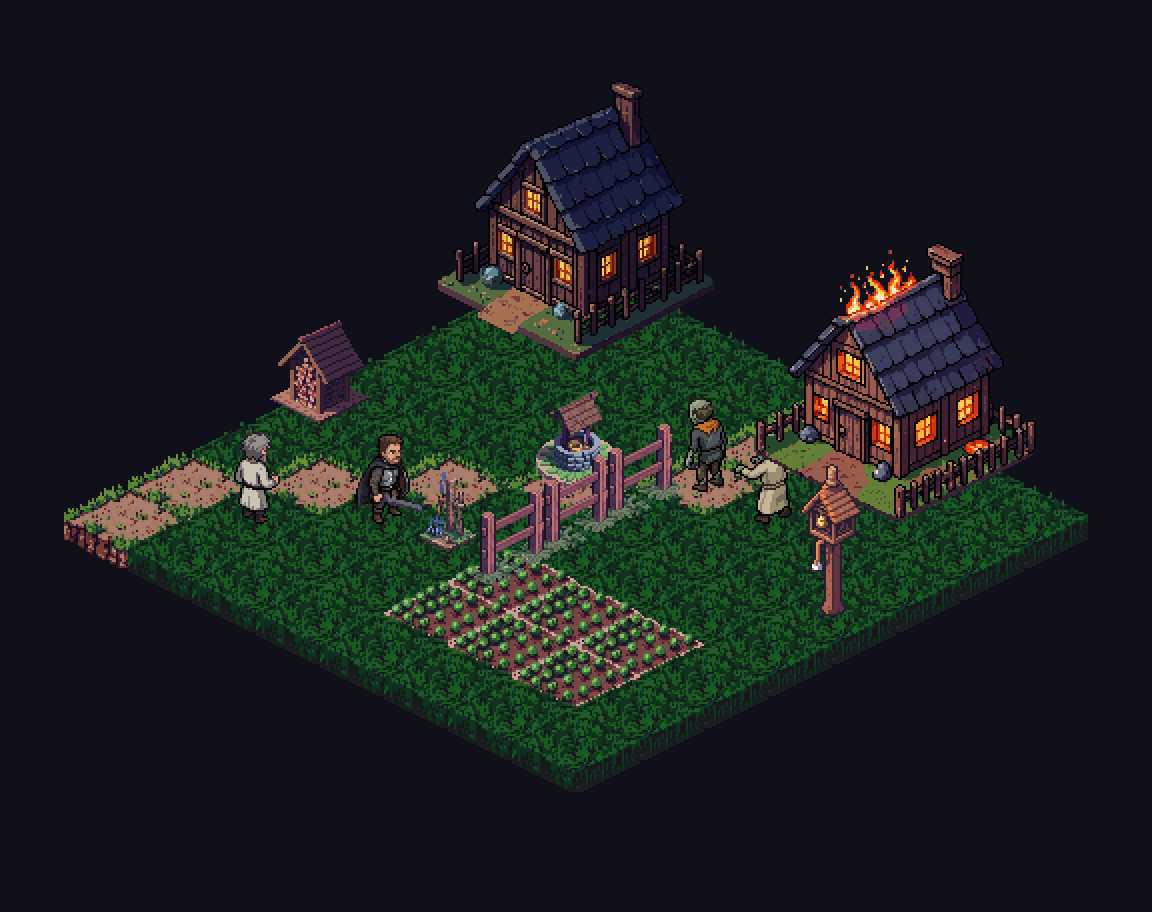
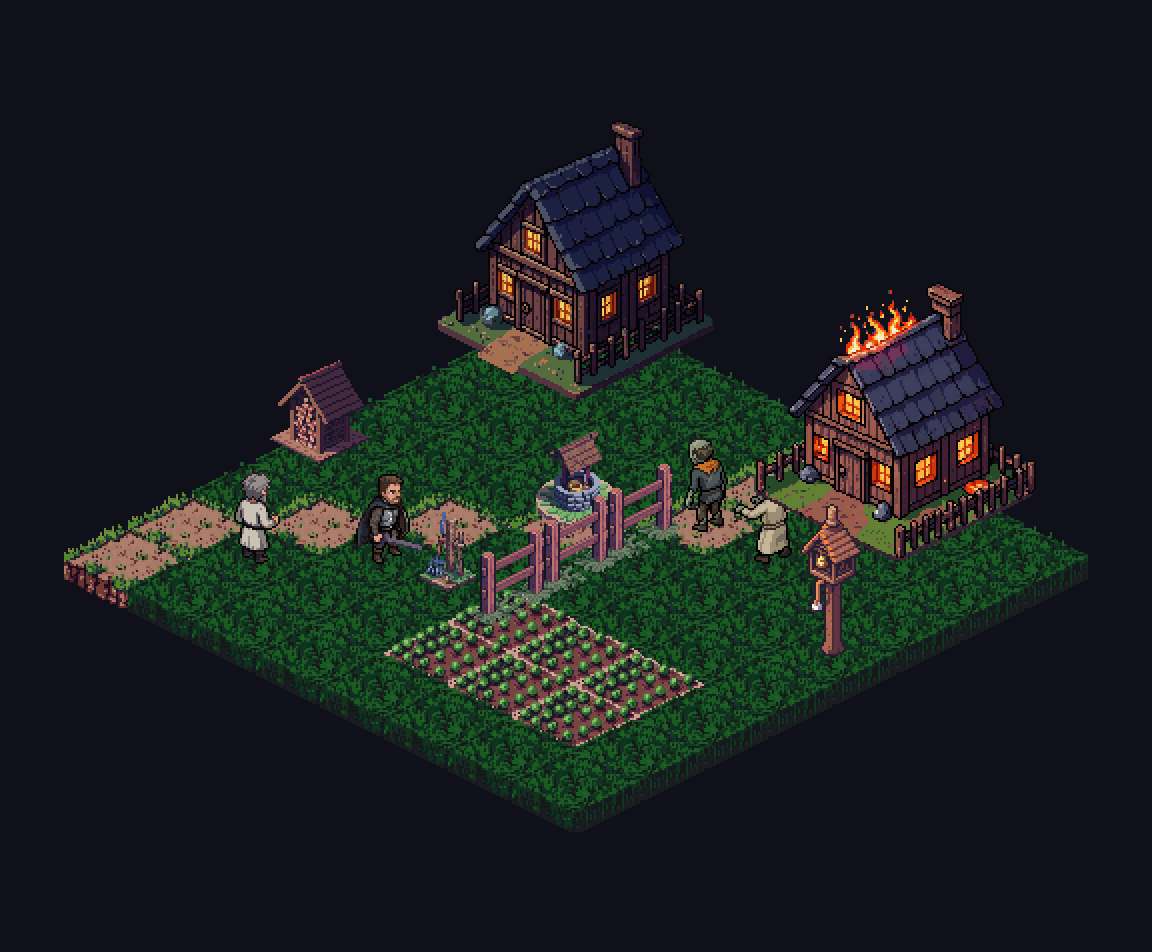
K3: деревня утром и храм, общие пробные сцены
Claude-Session: https://claude.ai/code/session_018SHDdbzaB97y34YHTo96bA

Changed region(s): [[0.0312, 0.0921, 0.9375, 0.8596]]

diff --git a/art/tools/k3_batch7.py b/art/tools/k3_batch7.py
@@ -1,0 +1,73 @@
+"""K3, партия 7: деревня утром (сцена 3) и храм (бой 2), PROMPTS.md 3.7.
+
+Каждый ассет — два seed в <набор>/variants/<имя>_<seed>.png; отобранный копируется в <набор>/<имя>.png.
+Утренние полы и постройки, общие с ночью, делаются перекраской (`morning.py`), здесь только новое.
+
+    python3 art/tools/k3_batch7.py [набор ...]
+"""
+import sys, concurrent.futures as cf
+from pathlib import Path
+sys.path.insert(0, str(Path(__file__).parent))
+import pixellab as p
+from k3_batch6 import ISO, FLAT
+
+TILES = p.ROOT / "art" / "prologue" / "tiles"
+MORNING = "grey cold morning light, overcast, "
+TEMPLE = "inside a ruined village temple, dim candlelight, "
+SETS = {
+ "village_morning": {
+  "tiles": {
+   "floor_ash": FLAT + "grey ash and charred straw over dirt, morning, low contrast, seamless edges",
+   "floor_ruts": FLAT + "muddy ground with two deep cart wheel ruts running straight across the tile diagonally, morning, low contrast, seamless edges",
+  },
+  "objects": {
+   "house_burned": (MORNING + "ruins of a burned-down cottage: only a blackened low stone foundation, a few charred standing wooden posts and fallen black beams, no roof, no fire, no flames, thin grey smoke, the ruins fill the whole canvas", 160, 160),
+   "grave": (MORNING + "fresh grave mound of dark earth with a simple wooden marker", 64, 48),
+   "cart_abandoned": (MORNING + "abandoned broken wooden cart with one wheel off lying beside it, a dull red crown-in-circle emblem painted on the side", 96, 96),
+   "list_scrap": (MORNING + "a single small torn sheet of paper with neat handwritten lines lying flat in the mud", 32, 32),
+   "cellar_hatch": (MORNING + "flat wooden trapdoor lying flat on the ground, a square cellar door in the ground, one half lifted open showing a dark hole, no building, no walls, no roof", 64, 48),
+  },
+ },
+ "temple": {
+  "tiles": {
+   "floor_flagstone": FLAT + "cracked grey temple flagstones with a faded painted pattern and candle wax drips, dim, low contrast, seamless edges",
+   "floor_debris": FLAT + "grey temple flagstones with scattered broken roof tiles and dust, dim, low contrast, seamless edges",
+   "floor_scorched": FLAT + "grey temple flagstones with a black scorched circle burned into the stone, dim, low contrast, seamless edges",
+  },
+  "objects": {
+   "pew": (TEMPLE + "long plain wooden church pew bench with a backrest, seats four people", 96, 96),
+   "pew_broken": (TEMPLE + "long wooden church pew bench with a backrest broken in the middle, two halves lying at an angle, splinters", 96, 96),
+   "altar": (TEMPLE + "stone altar with a carved candle-flame symbol on the front and many melted lit candles on top", 64, 64),
+   "column": (TEMPLE + "cracked round stone column with a fallen chunk at its base", 64, 96),
+   "candelabrum": (TEMPLE + "tall iron floor candelabrum with lit candles", 32, 64),
+   "roof_debris": (TEMPLE + "large heap of fallen charred wooden roof beams and broken clay roof tiles lying on the floor, the heap fills the canvas", 96, 96),
+  },
+ },
+}
+
+
+def one(kind, s, name, spec, seed):
+    out = TILES / s / "variants" / f"{name}_{seed}.png"
+    if out.exists():
+        return out
+    if kind == "tiles":
+        return p.iso_tile(name, spec + ", " + p.STYLE_ISO, out, seed=seed)
+    d, w, h = spec
+    return p.map_object(name, d + ", " + ISO + p.STYLE_ISO, out, w, h, seed=seed)
+
+
+if __name__ == "__main__":
+    args = sys.argv[1:]
+    if args[:1] == ["--reroll"]:  # --reroll имя... : ещё seed 3 и 4
+        names = set(args[1:])
+        jobs = [(k, s, n, sp, seed) for s in SETS for k in ("tiles", "objects") for n, sp in SETS[s][k].items()
+                if n in names for seed in (3, 4)]
+    else:
+        sets = args or list(SETS)
+        jobs = [(k, s, n, sp, seed) for s in sets for k in ("tiles", "objects") for n, sp in SETS[s][k].items() for seed in (1, 2)]
+    with cf.ThreadPoolExecutor(4) as ex:
+        for f in cf.as_completed([ex.submit(one, *j) for j in jobs]):
+            try:
+                print("ok", f.result().name, flush=True)
+            except Exception as e:
+                print("ERR", e, flush=True)

diff --git a/art/tools/scene_preview.py b/art/tools/scene_preview.py
@@ -1,0 +1,76 @@
+"""Пробные сцены 8×8 из тайлов пролога → previews/<сцена>_scene.png. Проверка стыков, масштаба и света.
+
+    python3 art/tools/scene_preview.py [village_night village_morning temple]
+"""
+import sys
+from PIL import Image
+from pathlib import Path
+
+A = Path(__file__).resolve().parents[1]
+C = A / "prologue/characters"
+W1 = A / "wave1/characters"
+N = 8
+HERO = C / "hero_fighter_m/composited/idle/south-east/00.png"
+ROT = lambda n, d: C / n / "base/Idle/rotations" / f"{d}.png"
+VILLAGE = ["ggggpggg", "ggggpggg", "ggggpggg", "gggpgggg", "ggpggggg", "gpggooog", "pgggooog", "pggggggg"]
+SCENES = {
+ "village_night": dict(
+    map=VILLAGE, key={"p": "floor_path", "g": "floor_grass", "o": "floor_garden"}, bg=(16, 16, 26),
+    objs={(1, 1): "house", (6, 1): "house_burning", (3, 3): "well", (0, 4): "woodpile", (7, 3): "bell_tower",
+          (4, 3): "fence", (4, 4): "fence", (4, 5): "fence", (3, 5): "tools"},
+    chars={(2, 5): HERO, (4, 2): W1 / "zombie/rotations/north-west.png", (5, 2): ROT("parishioner_m", "north-west"),
+           (1, 6): ROT("neighbor", "north-east")}),
+ "village_morning": dict(
+    map=["ggggrggg", "gaaarggg", "gaaarggg", "gggrgggg", "ggrggggg", "grggooog", "rgggooog", "rggggggg"],
+    key={"p": "floor_path", "g": "floor_grass", "o": "floor_garden", "a": "floor_ash", "r": "floor_ruts"}, bg=(58, 60, 66),
+    objs={(1, 1): "house_burned", (6, 1): "house", (3, 3): "well", (0, 4): "woodpile", (7, 3): "bell_tower",
+          (4, 3): "fence", (4, 4): "fence", (4, 5): "fence", (5, 3): "grave", (2, 6): "cart_abandoned",
+          (3, 6): "list_scrap", (6, 6): "cellar_hatch"},
+    chars={(2, 4): HERO, (3, 5): ROT("oldrik", "north-west"), (5, 5): ROT("neighbor_woman", "south-west")}),
+ "temple": dict(
+    map=["ffffffff", "fdffffdf", "ffffffff", "fffsffff", "ffffffff", "ffffffff", "fdfffffd", "ffffffff"],
+    key={"f": "floor_flagstone", "d": "floor_debris", "s": "floor_scorched"}, bg=(14, 13, 18),
+    objs={(3, 0): "altar", (2, 0): "candelabrum", (5, 0): "candelabrum", (1, 2): "column", (6, 2): "column",
+          (1, 5): "column", (6, 5): "column", (2, 4): "pew", (5, 4): "pew_broken", (2, 6): "pew", (5, 6): "roof_debris"},
+    chars={(3, 5): HERO, (4, 3): W1 / "irena/rotations/south-east.png" if (W1 / "irena/rotations/south-east.png").exists() else None,
+           (4, 1): ROT("parishioner_f", "south-west"), (6, 3): ROT("parishioner_m", "south-west")}),
+}
+
+
+def render(name):
+    sc = SCENES[name]
+    T = A / "prologue/tiles" / name
+    Wd, H = N * 64 + 64, N * 32 + 220
+    S = Image.new("RGBA", (Wd, H), sc["bg"] + (255,))
+    ox, oy = Wd // 2 - 32, 150
+    pos = lambda x, y: (ox + (x - y) * 32, oy + (x + y) * 16)
+    for s in range(2 * N):
+        for x in range(N):
+            y = s - x
+            if 0 <= y < N:
+                px, py = pos(x, y)
+                S.alpha_composite(Image.open(T / f"{sc['key'][sc['map'][y][x]]}.png").convert("RGBA"), (px, py - 22))
+    for s in range(2 * N):
+        for x in range(N):
+            y = s - x
+            if not (0 <= y < N):
+                continue
+            px, py = pos(x, y)
+            f = sc["objs"].get((x, y)) or sc["chars"].get((x, y))
+            if not f:
+                continue
+            p = T / f"{f}.png" if isinstance(f, str) else f
+            if not p.exists():
+                continue
+            im = Image.open(p).convert("RGBA")
+            bb = im.getbbox()
+            S.alpha_composite(im, (px + 32 - im.width // 2, py + 18 - bb[3] + (0 if isinstance(f, str) else 2)))
+    S = S.resize((S.width * 2, S.height * 2), Image.NEAREST)
+    out = A / f"prologue/previews/{name}_scene.png"
+    S.save(out)
+    return out
+
+
+if __name__ == "__main__":
+    for n in sys.argv[1:] or SCENES:
+        print(render(n))

diff --git a/art/tools/morning.py b/art/tools/morning.py
@@ -1,0 +1,35 @@
+"""Утро после облавы: перекраска ночных ассетов деревни в холодный серый утренний свет (PROMPTS.md 3.7).
+
+Насыщенность снижается, тени поднимаются, всё сдвигается к сине-серому; огонь в окнах гаснет до тусклого.
+    python3 art/tools/morning.py  → tiles/village_morning/<имя>.png для ассетов из NIGHT
+"""
+from pathlib import Path
+import colorsys
+import numpy as np
+from PIL import Image
+
+A = Path(__file__).resolve().parents[1] / "prologue" / "tiles"
+NIGHT = ["floor_path", "floor_grass", "floor_garden", "edge", "fence", "fence_b", "woodpile", "well", "bell_tower", "tools", "house"]
+TINT = np.array([150, 158, 170]) / 255  # холодный серый
+
+
+def morning(img):
+    a = np.array(img.convert("RGBA")).astype(float) / 255
+    rgb = a[..., :3]
+    lum = rgb @ np.array([0.299, 0.587, 0.114])
+    hsv = np.array([colorsys.rgb_to_hsv(*px) for px in rgb.reshape(-1, 3)]).reshape(rgb.shape)
+    warm_glow = (hsv[..., 1] > 0.55) & (hsv[..., 2] > 0.7) & ((hsv[..., 0] < 0.15) | (hsv[..., 0] > 0.95))
+    grey = lum[..., None] * np.ones(3)
+    out = rgb * 0.45 + grey * 0.55          # снять насыщенность
+    out = out * 0.85 + 0.12                 # поднять тени: утро светлее ночи
+    out = out * (0.7 + 0.3 * TINT / TINT.mean())
+    out[warm_glow] = grey[warm_glow] * 0.6 + 0.1  # окна и огонь гаснут
+    a[..., :3] = np.clip(out, 0, 1)
+    return Image.fromarray((a * 255).round().astype(np.uint8))
+
+
+if __name__ == "__main__":
+    for n in NIGHT:
+        src = A / "village_night" / f"{n}.png"
+        morning(Image.open(src)).save(A / "village_morning" / f"{n}.png")
+        print(n)

diff --git a/art/prologue/K3.md b/art/prologue/K3.md
@@ -15,6 +15,9 @@
 | `art/tools/drop_shadow.py` | Стирает серую тень-подставку под ногами, если PixelLab её нарисовал (у соседа). |
 | `art/tools/npc_preview.py` | Превью анимаций партии 4 → `previews/npcs_anim.png`. |
 | `art/tools/k3_batch5.py`, `k3_states.py` | Статичные персонажи и позы-состояния (связанные). |
+| `art/tools/k3_batch6.py`, `k3_batch7.py` | Деревня ночью; деревня утром и храм (по два seed в `variants/`, `--reroll` — ещё два). |
+| `art/tools/morning.py` | Перекраска ночных ассетов деревни в утренний свет. |
+| `art/tools/scene_preview.py` | Пробные сцены 8×8 деревни ночью, утром и храма → `previews/<сцена>_scene.png`. |
 | `art/tools/ford_preview.py` | Пробная сцена брода 8×8 → `previews/ford_scene*.png`. |
 | `generations.jsonl` | Журнал: что сгенерировано, id в PixelLab, стоимость. |
 
@@ -55,12 +58,20 @@
 
 ## Партия 6 (2026-10-13): деревня ночью
 
-`k3_batch6.py` (`--reroll имя…` — ещё два seed в `variants/`): 3 пола, край, дом, горящий дом, плетень, поленница, колодец, колокольня, вилы у столба. Полы и постройки перегенерированы по два раза, отобраны дом и горящий дом одной пары (`house_1`, `house_burning_1`). Пробная сцена — `previews/village_night_scene.png` (`village_preview.py`). Около 27 генераций.
+`k3_batch6.py` (`--reroll имя…` — ещё два seed в `variants/`): 3 пола, край, дом, горящий дом, плетень, поленница, колодец, колокольня, вилы у столба. Полы и постройки перегенерированы по два раза, отобраны дом и горящий дом одной пары (`house_1`, `house_burning_1`). Пробная сцена — `previews/village_night_scene.png` (`scene_preview.py`). Около 27 генераций.
 
 Первая сцена показала пёструю траву, мелкие дома и плетень не по той диагонали. Исправлено: спокойная трава (`floor_grass_4`), дома на холсте 160×160 с двором и оградой (`house_4`, `house_burning_4`), плетень `fence.png` идёт вдоль оси y, зеркальный `fence_b.png` — вдоль оси x.
+
+## Партия 7 (2026-10-13): деревня утром и храм
+
+`k3_batch7.py`, по два варианта на ассет, неудачные перегенерированы ещё раз (`--reroll`). Утро: пепел, колея, могила, брошенная телега с короной, обрывок списка, погреб; общие с ночью полы и постройки перекрашены `morning.py`, пепел и колея обесцвечены под них. Храм: три пола (выжженный круг — одна клетка зоны Ирены), скамья, сломанная скамья, алтарь, колонна, подсвечник, обломки кровли. Сцены — `previews/village_morning_scene.png`, `previews/temple_scene.png`.
+
+Что выяснилось:
+- Сгоревший дом генератор объектов упорно рисует целым домом. Помогло `POST /objects/{id}/states` от ночного дома («the same cottage burned down to ruins…», 10 генераций): руины совпадают с домом по форме. Скачивается через `GET /objects/{id}/spritesheet` (zip).
+- У скамьи на холсте 96 появился лишний стул — вырезан (оставлена самая крупная связная область).
 
 ## Дальше
 
 1. Болт арбалета; супруг за решёткой телеги — вместе с телегой.
-2. Деревня ночью и утром, храм, ворота, лагерь.
+2. Ворота рудника и лагерь колонны.
 3. Эффекты, иконки, интерфейс.
